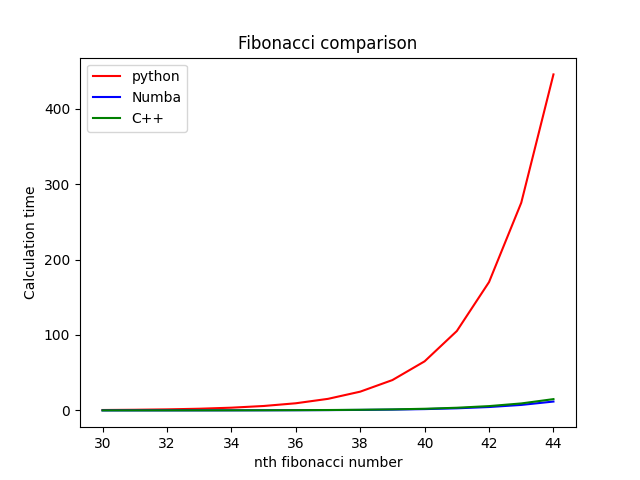
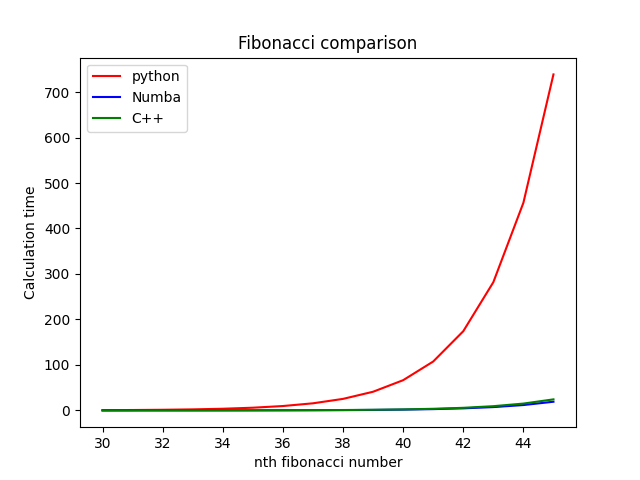
updated plots

diff --git a/MA4_2.py b/MA4_2.py
@@ -20,7 +20,7 @@ def main():
 	python_time = []
 	numba_time = []
 	cpp_time = []
-	for n in range(30,45):
+	for n in range(30,46):
 		x_axis.append(n)
 
 		# Python
